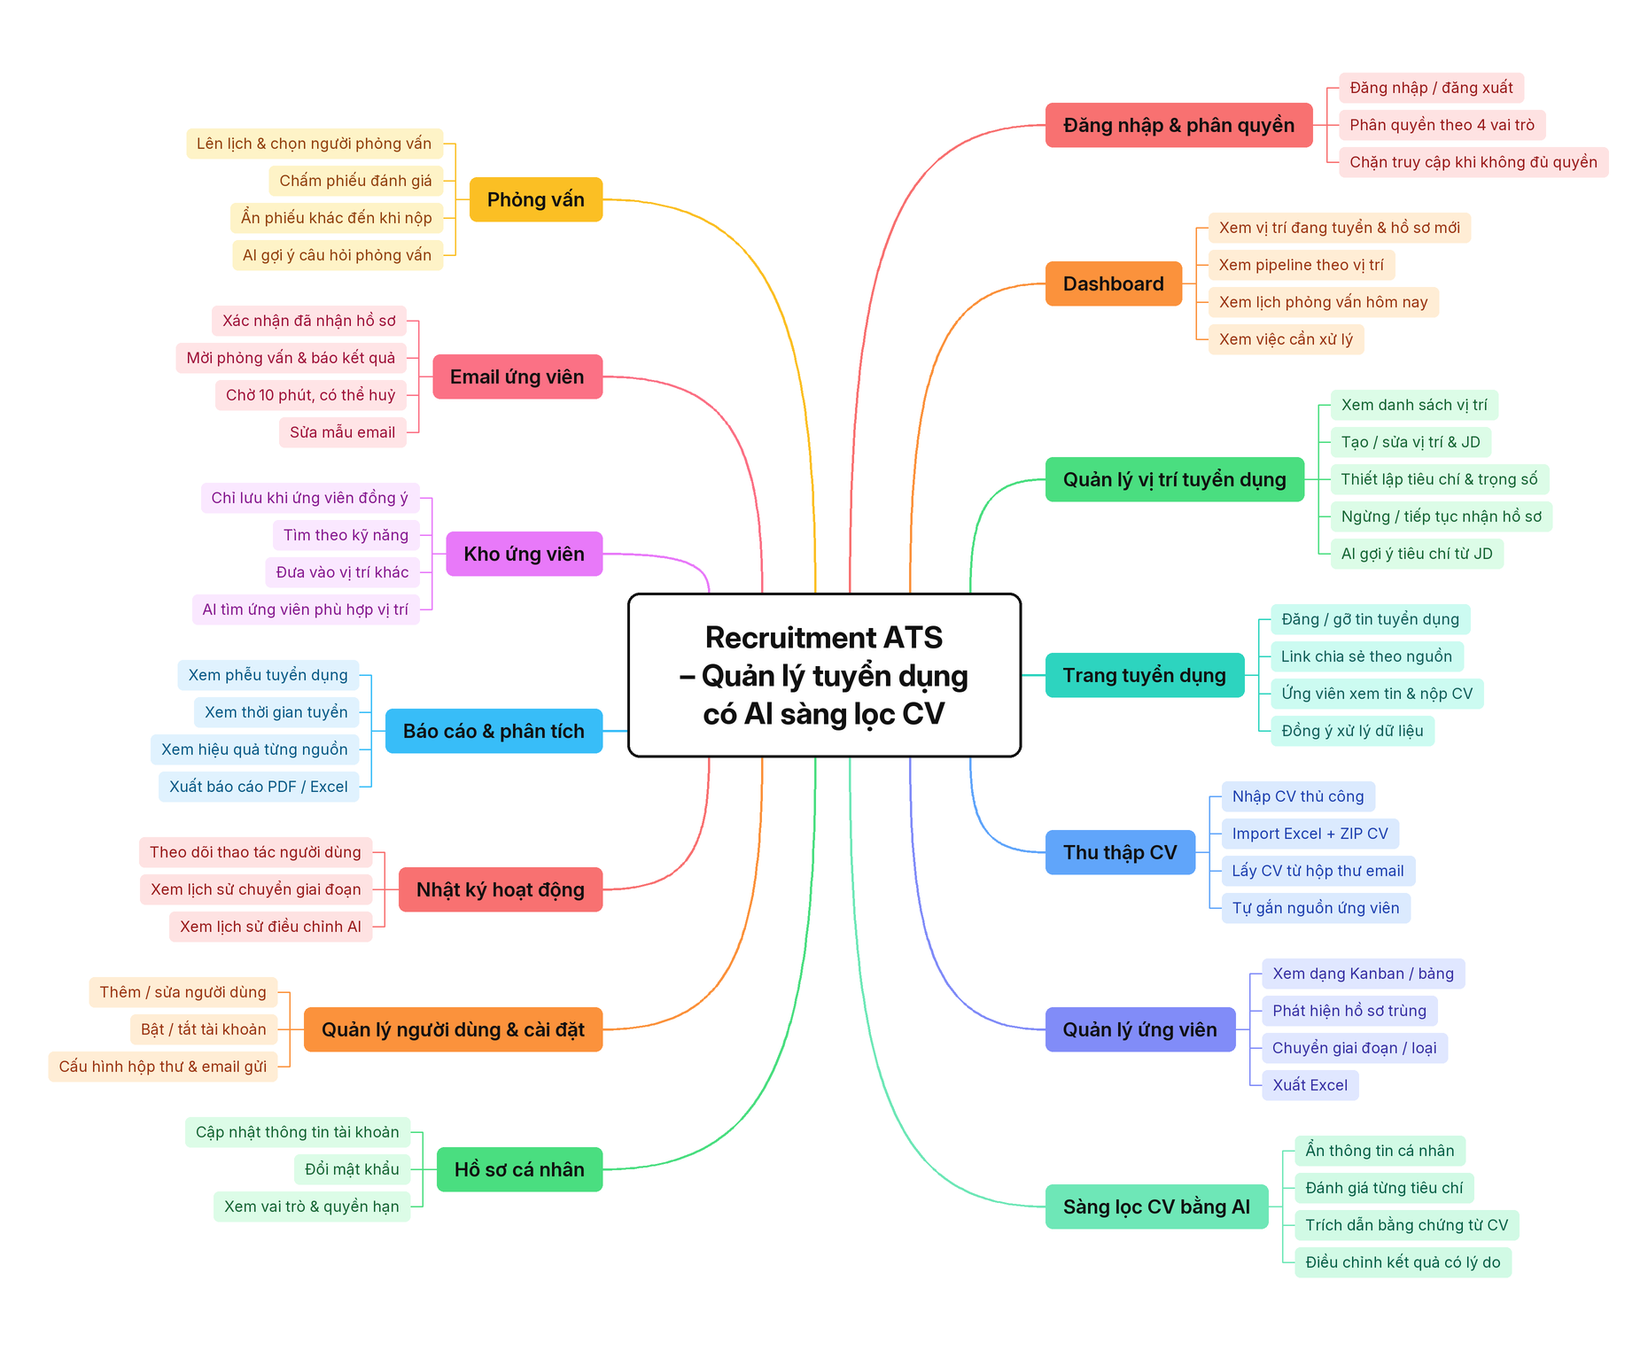
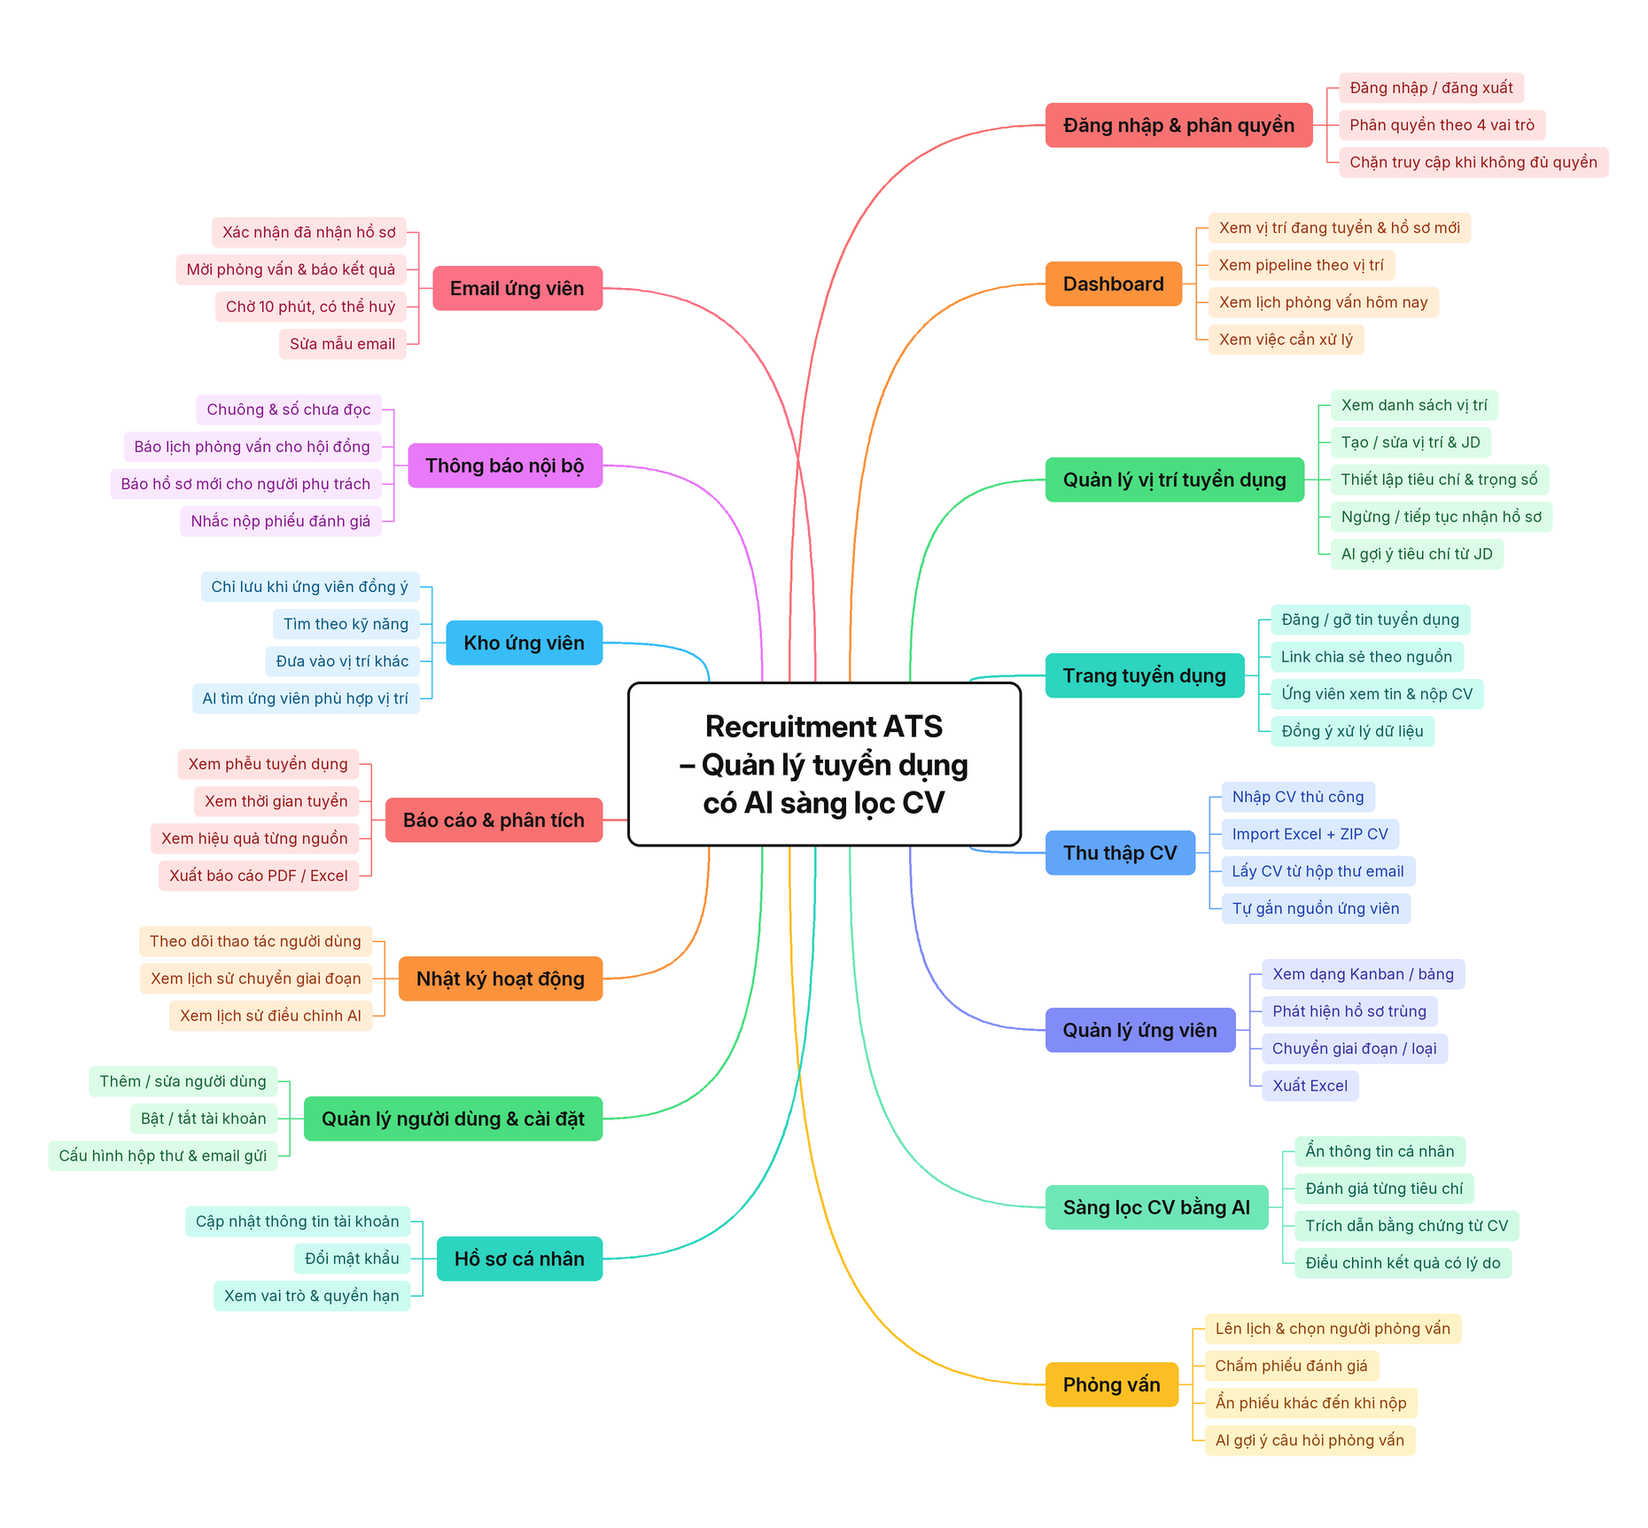
Complete US35 notifications in the remaining docs
- README: US35 in the story list, goal G11, scope and out-of-scope, use case summary, roles table, IA tree and screen map (39 screens), ER, API groups, folder trees
- Mind map: new branch 'Thông báo nội bộ' in the XMind source, PNG re-rendered
- 01 goal G11; 06 Notifications component; 11 seq_schedule_interview with Notifier (PNG, SVG, draw.io); 13 log

Changed region(s): [[0.0312, 0.0308, 0.9978, 0.956], [0.5613, 0.0925, 0.5925, 0.1234], [0.5301, 0.3701, 0.5613, 0.4009]]

diff --git a/docs/diagrams/ve_ats.py b/docs/diagrams/ve_ats.py
@@ -341,7 +341,7 @@ def seq_email_dispatch():
 def seq_schedule_interview():
     s = Seq('Schedule interview', [user('R', 'Recruiter'), page('UI', ':Schedule interview modal'),
                                    ctl('API', ':InterviewsController'), ctl('S', ':InterviewService'),
-                                   ctl('ES', ':EmailScheduler'), DB])
+                                   ctl('ES', ':EmailScheduler'), ctl('N', ':Notifier'), DB])
     s.call('R', 'UI', 'time, place, panel, "Lưu lịch"')
     s.call('UI', 'API', 'POST …/{id}/interviews')
     s.call('API', 'S', 'ScheduleAsync(applicationId, request)')
@@ -362,7 +362,9 @@ def seq_schedule_interview():
     s.self_('S', 'create interview, panel slots')
     s.call('S', 'ES', 'ScheduleAsync(INVITATION)')
     s.reply('ES', 'S', 'email PENDING, +10 min')
-    s.call('S', 'DB', 'save interview, email, audit')
+    s.call('S', 'N', 'InterviewScheduledAsync(interview, actor)')
+    s.reply('N', 'S', 'a notification per panel member except the actor; panel email PENDING, +10 min')
+    s.call('S', 'DB', 'save interview, emails, notifications, audit')
     s.reply('DB', 'S', 'saved or exclusion violation')
     s.frag('alt', 'exclusion constraint violated')
     s.reply('S', 'API', 'INTERVIEW_OVERLAP')

diff --git a/README.md b/README.md
@@ -22,6 +22,7 @@ Small hiring teams collect CVs from many channels, screen them manually, track p
 | G8 Reuse of talent | Consented candidates searchable and addable to another position |
 | G9 Channel effectiveness | Applications per source, including LinkedIn and Facebook share links |
 | G10 AI across the hiring flow | Criteria drafts, semantic pool matches, and interview-question drafts — each reviewed by a person before use |
+| G11 The team acts on time | Panel members and position owners notified of work that concerns them (in the app; interviews also by email) |
 
 What makes this project different from a generic ATS:
 
@@ -38,7 +39,8 @@ What makes this project different from a generic ATS:
 - **Channels (all free).** Candidates apply on the career site — a separate public web app with its own domain — without an account. HR shares source-tagged links to a job post on LinkedIn, Facebook, or elsewhere (`?src=linkedin`), so applications are classified automatically. CVs sent to the recruitment mailbox are collected into a CV inbox. Recruiters can still add CVs manually or import Excel + ZIP.
 - **Candidate communication.** Automatic emails from editable templates: receipt immediately; interview invitation, change, cancellation, rejection, and offer notice after a 10-minute cancel window.
 - **Talent pool and export.** Consented candidates can be added to another position; candidate lists export to Excel.
-- **Out of scope:** candidate accounts, API integration with paid job boards (TopCV, VietnamWorks) and automatic posting to LinkedIn/Facebook (no public API), SMS and calendar integration, headcount planning, OCR for scanned CVs, offer letters and onboarding, and AI that learns from past decisions or makes reject/hire decisions.
+- **Team notifications.** A bell in the internal app tells panel members and position owners about interviews, new applications, completed scorecards, and failures; panel members also get interview emails.
+- **Out of scope:** candidate accounts, API integration with paid job boards (TopCV, VietnamWorks) and automatic posting to LinkedIn/Facebook (no public API), SMS and calendar integration, browser push or real-time notifications, a global search box, headcount planning, OCR for scanned CVs, offer letters and onboarding, and AI that learns from past decisions or makes reject/hire decisions.
 
 Full analysis, market research (Greenhouse, Base E-Hiring, FastWork, EasyHRM, Vingroup practice), channel feasibility, scope, constraints, and risks: [Top-down research](docs/01-research-top-down.md).
 
@@ -84,6 +86,7 @@ US31        Candidate data consent (join, leave, delete)
 US32        AI-suggested criteria from a job description
 US33        AI matching of pool candidates to a position (embeddings)
 US34        AI-suggested interview questions
+US35        In-app notifications (+ interview emails to panel members)
 ```
 
 Backlog, per-story INVEST review, and acceptance criteria: [INVEST requirements](docs/03-invest-requirements.md).
@@ -103,10 +106,10 @@ flowchart TB
 
     subgraph system["Recruitment ATS — System Boundary"]
         direction LR
-        adminCases["<b>Administrator</b><br/><br/>UC01–03 Login, logout, dashboard<br/>UC04–07 · UC22 Positions, job posts<br/>UC08–11 Applications<br/>UC16 Import · UC25 CV inbox<br/>UC26 Talent pool · UC30 Export<br/>UC12–13 AI analysis, override<br/>UC32–34 AI criteria, pool matches, questions<br/>UC14 Schedule interview<br/>UC27–28 Emails, templates<br/>UC17–19 Reports, audit<br/>UC20 Users · UC29 Mailbox & sender<br/>UC21 Profile"]
-        managerCases["<b>HR Manager</b><br/><br/>UC01–03 Login, logout, dashboard<br/>UC04–07 · UC22 Positions, job posts<br/>UC08–11 Applications incl. Offer/Hire<br/>UC16 Import · UC25 CV inbox<br/>UC26 Talent pool · UC30 Export<br/>UC12–13 AI analysis, override<br/>UC32–34 AI criteria, pool matches, questions<br/>UC14 Schedule · UC15 Scorecard<br/>UC27–28 Emails, templates<br/>UC17–19 Reports, audit<br/>UC21 Profile"]
-        recruiterCases["<b>Recruiter</b><br/><br/>UC01–03 Login, logout, dashboard<br/>UC04–06 · UC22 Own positions, job posts<br/>UC08–11 Applications up to Interview<br/>UC16 Import · UC25 CV inbox<br/>UC26 Talent pool · UC30 Export<br/>UC12–13 AI analysis, override<br/>UC32–34 AI criteria, pool matches, questions<br/>UC14 Schedule interview<br/>UC27 Candidate emails<br/>UC21 Profile"]
-        interviewerCases["<b>Interviewer</b><br/><br/>UC01–03 Login, logout, dashboard<br/>UC04 Assigned positions<br/>UC08 Assigned applications, no AI score<br/>UC15 Submit blind scorecard<br/>Sees attached interview questions<br/>UC21 Profile"]
+        adminCases["<b>Administrator</b><br/><br/>UC01–03 Login, logout, dashboard<br/>UC04–07 · UC22 Positions, job posts<br/>UC08–11 Applications<br/>UC16 Import · UC25 CV inbox<br/>UC26 Talent pool · UC30 Export<br/>UC12–13 AI analysis, override<br/>UC32–34 AI criteria, pool matches, questions<br/>UC14 Schedule interview<br/>UC27–28 Emails, templates<br/>UC17–19 Reports, audit<br/>UC20 Users · UC29 Mailbox & sender<br/>UC21 Profile · UC35 Notifications"]
+        managerCases["<b>HR Manager</b><br/><br/>UC01–03 Login, logout, dashboard<br/>UC04–07 · UC22 Positions, job posts<br/>UC08–11 Applications incl. Offer/Hire<br/>UC16 Import · UC25 CV inbox<br/>UC26 Talent pool · UC30 Export<br/>UC12–13 AI analysis, override<br/>UC32–34 AI criteria, pool matches, questions<br/>UC14 Schedule · UC15 Scorecard<br/>UC27–28 Emails, templates<br/>UC17–19 Reports, audit<br/>UC21 Profile · UC35 Notifications"]
+        recruiterCases["<b>Recruiter</b><br/><br/>UC01–03 Login, logout, dashboard<br/>UC04–06 · UC22 Own positions, job posts<br/>UC08–11 Applications up to Interview<br/>UC16 Import · UC25 CV inbox<br/>UC26 Talent pool · UC30 Export<br/>UC12–13 AI analysis, override<br/>UC32–34 AI criteria, pool matches, questions<br/>UC14 Schedule interview<br/>UC27 Candidate emails<br/>UC21 Profile · UC35 Notifications"]
+        interviewerCases["<b>Interviewer</b><br/><br/>UC01–03 Login, logout, dashboard<br/>UC04 Assigned positions<br/>UC08 Assigned applications, no AI score<br/>UC15 Submit blind scorecard<br/>Sees attached interview questions<br/>UC21 Profile · UC35 Notifications"]
         candidateCases["<b>Candidate</b><br/><br/>UC23 Browse job posts<br/>UC24 Apply online<br/>UC31 Manage data consent"]
     end
 
@@ -123,7 +126,7 @@ flowchart TB
     interviewer --> interviewerCases
     candidate --> candidateCases
     system -.->|UC12 · UC32–34 redacted text,<br/>job descriptions, embeddings| ai
-    system -.->|UC27 candidate emails| mail
+    system -.->|UC27 candidate emails<br/>UC35 panel emails| mail
     mailbox -.->|UC25 emailed CVs| system
 
     classDef actor fill:#666,color:#fff,stroke:#333
@@ -166,6 +169,7 @@ Four internal roles have accounts; candidates use the public career site without
 | Reports and export | Yes | Yes | No | No |
 | Audit log | Yes | Yes | No | No |
 | User management | Yes | No | No | No |
+| Notifications (own only) | Yes | Yes | Yes | Yes |
 
 **Candidate (no account):** browse published job posts, apply with consent, and join or leave the talent pool or delete their data from the signed link in any email.
 
@@ -202,6 +206,7 @@ Authenticated
 ├── Users
 ├── Settings: Email templates · Mailbox & sender
 ├── Profile
+├── Notifications panel (topbar bell)
 └── Forbidden
 ```
 
@@ -236,10 +241,12 @@ flowchart TB
     Shell --> Users["Users"]
     Shell --> Settings["Settings"]
     Shell --> Profile["Profile"]
+    Shell --> Notifications["Notifications panel"]
+    Notifications -.-> AppDetail
     Shell --> Forbidden["403"]
 ```
 
-Screen inventory (38 screens, including 6 public career-site screens), requirement-to-screen mapping, task flows, state contract, accessibility rules, and screen-to-API mapping: [Information architecture](docs/04-information-architecture.md).
+Screen inventory (39 screens, including 6 public career-site screens), requirement-to-screen mapping, task flows, state contract, accessibility rules, and screen-to-API mapping: [Information architecture](docs/04-information-architecture.md).
 
 ### 2.3 UI prototype
 
@@ -398,6 +405,7 @@ erDiagram
     applications ||--o{ email_messages : triggers
     email_templates ||--o{ email_messages : renders
     inbox_items |o--o| applications : "converted to"
+    users ||--o{ notifications : receives
     import_batches ||--o{ applications : creates
     users ||--o{ audit_logs : performs
     candidates ||--o| candidate_embeddings : "embedded as"
@@ -428,6 +436,7 @@ Full ER diagrams per domain, queue claims, retention jobs, and rule-to-constrain
 | Interviews, scorecards, AI question drafts | `/api/interviews`, `/api/applications/{id}/scorecards`, `/api/applications/{id}/interview-question-suggestions` | 10 |
 | Emails, CV inbox, talent pool, imports | `/api/emails`, `/api/inbox-items`, `/api/talent-pool`, `/api/imports` | 18 |
 | Reports, audit, users, settings | `/api/reports`, `/api/audit-logs`, `/api/users`, `/api/settings` | 15 |
+| Notifications | `/api/notifications` | 4 |
 | Public career site | `/api/public` | 8 |
 
 Every internal operation declares its roles in `x-roles`; errors use RFC 7807 Problem Details with a stable `errorCode` and `traceId`; Interviewers never receive AI fields. Conventions, status codes, error codes, the endpoint list, and story coverage: [OpenAPI contract](docs/08-openapi-contract.md).
@@ -449,10 +458,11 @@ src/backend/
 ├── RecruitmentAts.slnx
 ├── src/
 │   ├── RecruitmentAts.Application/     # modules: Positions, Applications, Screening, Interviews,
-│   │                                   # Communication, Inbox, Imports, Consent, … + Abstractions (ports)
+│   │                                   # Communication, Inbox, Imports, Consent, Notifications, … + Abstractions (ports)
 │   ├── RecruitmentAts.Infrastructure/  # EF Core + PostgreSQL, queues, MailKit, LLM, files, Excel, PDF
 │   ├── RecruitmentAts.Api/             # controllers (route name = operationId), JWT, ProblemDetails
-│   └── RecruitmentAts.Worker/          # AnalysisRunner, EmailDispatcher, MailboxPoller, RetentionJob
+│   └── RecruitmentAts.Worker/          # AnalysisRunner, EmailDispatcher, MailboxPoller, RetentionJob,
+│                                       # ScorecardReminderJob, EmbeddingRunner
 └── tests/                              # Application, Infrastructure (Testcontainers), Api (+ contract),
                                         # Worker, ArchitectureTests
 ```
@@ -473,7 +483,7 @@ src/frontend/
 ├── apps/
 │   ├── internal/src/features/          # auth, dashboard, positions, job-posts, applications, screening,
 │   │                                   # interviews, emails, inbox, talent-pool, imports, reports, audit,
-│   │                                   # users, settings, profile
+│   │                                   # users, settings, profile, notifications
 │   └── career/src/features/            # jobs, apply, consent, privacy
 ├── packages/
 │   ├── api-client/                     # types generated from docs/api/openapi.yaml, auth refresh, ProblemDetails

diff --git a/docs/13-progress.md b/docs/13-progress.md
@@ -135,7 +135,7 @@ Deviations from the design documents, kept here so they are easy to review (each
 | 2026-11-05 | The user form checks a taken email while the Admin types (400 ms after the last key) with `listUsers` filtered to an exact match — no new endpoint; `DUPLICATE_EMAIL` (409) still covers two Admins saving at once | 05 |
 | 2026-11-05 | Pagination (Figma component `Pagination`, Style=Table, and code): the "1–20 trong 126" summary is removed, controls are 28 px and right-aligned. Updated in Figma for SCR-10, 11, 20, 40, 45, 70 and in their exported screenshots | 05, `images/screens` |
 | 2026-11-05 | The add-user button uses the Figma `plus` icon (16 px) instead of a typed "+" | — |
-| 2026-11-05 | **New story US35 Notifications (M, 5 points, M2 after US15) and BR-29**: the design told nobody inside the team about new work (the interview invitation goes to the candidate only; panel members had to open the dashboard). Bell with unread count, panel `SCR-91`, notifications to the people an event concerns, interview emails to panel members (10-minute window like BR-23), scorecard reminder after 24 h. Table `notifications`, 4 operations (92 in total) | 01, 02, 03, 04, 05, 06, 07, 08, 09, 10, 12, README, `openapi.yaml`, `schema.sql` |
+| 2026-11-05 | **New story US35 Notifications (M, 5 points, M2 after US15) and BR-29**: the design told nobody inside the team about new work (the interview invitation goes to the candidate only; panel members had to open the dashboard). Bell with unread count, panel `SCR-91`, notifications to the people an event concerns, interview emails to panel members (10-minute window like BR-23), scorecard reminder after 24 h. Table `notifications`, 4 operations (92 in total), goal G11 | 01, 02, 03, 04, 05, 06, 07, 08, 09, 10, 11 (`seq_schedule_interview`), 12, README, mind map (XMind + PNG), `openapi.yaml`, `schema.sql` |
 | 2026-11-05 | No global search: the Figma topbar had a "Tìm ứng viên, vị trí, mã hồ sơ" box that no story or operation covered; removed from the `Topbar` component (17 screens re-exported). Each list keeps its own search | 01, 04, 05, `images/screens` |
 | 2026-11-05 | Known limitation: two browser tabs refreshing with the same cookie at the same moment look like token reuse and end the session (single-flight works per tab only) | — |
 | 2026-11-04 | Internal app: every IA page has its route and sidebar item from T1.3; a page whose story is not built shows "Chức năng này đang được xây dựng". Nav icons come with the `ui` icon set | 09 §4.2 |

diff --git a/docs/11-sequence-and-state-diagrams.md b/docs/11-sequence-and-state-diagrams.md
@@ -41,7 +41,7 @@ Lifelines use the class names of the [class design](10-class-design.md), so ever
 | [seq_override_ai](#seq-override-ai) | Recruiter overrides one criterion result | US13, BR-13 |
 | [seq_move_stage](#seq-move-stage) | Reject an application, queue the email | US11, BR-01–04, BR-23 |
 | [seq_email_dispatch](#seq-email-dispatch) | Cancel a pending email; Worker sends due emails | US27, BR-23 |
-| [seq_schedule_interview](#seq-schedule-interview) | Schedule an interview, prevent double booking | US14 |
+| [seq_schedule_interview](#seq-schedule-interview) | Schedule an interview, prevent double booking, notify the panel | US14, US35, BR-29 |
 | [seq_submit_scorecard](#seq-submit-scorecard) | Blind scorecard submission | US15, BR-07 |
 | [seq_mailbox_intake](#seq-mailbox-intake) | Worker collects CVs from the mailbox | US25, BR-22 |
 | [seq_bulk_import](#seq-bulk-import) | Preview and atomic import | US16, BR-16 |
@@ -121,7 +121,7 @@ Cancel (`UPDATE … WHERE status = 'PENDING'`) and claim (`PENDING → SENDING`)
 
 ![Schedule interview](diagrams/out/seq_schedule_interview.png)
 
-The overlap query gives a readable error; the exclusion constraint `ex_panelist_overlap` catches two requests that pass the query at the same time. Rescheduling replaces a still-pending invitation instead of sending a second email.
+The overlap query gives a readable error; the exclusion constraint `ex_panelist_overlap` catches two requests that pass the query at the same time. Rescheduling replaces a still-pending invitation instead of sending a second email. `Notifier` adds the panel members' notifications in the same transaction, so a rejected interview notifies nobody; a later change cancels a panel email that is still pending (BR-29).
 
 <a id="seq-submit-scorecard"></a>
 ### Submit blind scorecard

diff --git a/docs/06-c4-architecture.md b/docs/06-c4-architecture.md
@@ -227,6 +227,7 @@ flowchart TB
 | Applications & Pipeline | Candidate de-duplication, CV upload and replacement, stage moves, rejection reasons, stage history | US08–11, BR-01–06, BR-15, BR-18 |
 | Screening | Analysis status and history, re-run, per-criterion override with reason | US12, US13, BR-09, BR-13 |
 | Interviews | Scheduling with panel; AI-suggested questions attached by the scheduler; blind scorecards | US14, US15, US34, BR-07, BR-08, BR-28 |
+| Notifications | The signed-in user's notifications (list, unread count, mark read); `Notifier` is called by other modules inside their transaction and picks the recipients | US35, BR-29 |
 | Intake | Bulk import preview and atomic commit; CV inbox assign/dismiss; talent pool search, semantic pool matches for a position, add to position | US16, US25, US26, US33, BR-16, BR-22, BR-24, BR-27 |
 | Communication | List, edit, cancel, resend candidate emails; templates with preview; mailbox and sender settings with connection test | US27–29, BR-23 |
 | Insight & Admin | Dashboard, reports and export, candidate Excel export, audit log, user management | US03, US17–20, US30, BR-25 |

diff --git a/docs/01-research-top-down.md b/docs/01-research-top-down.md
@@ -58,6 +58,7 @@ A separate Hiring Manager role (department head who requests and approves hiring
 | G8 — Reuse of talent | Candidates who consented can be found in the talent pool and added to another position in one action |
 | G9 — Channel effectiveness | Applications per source are reported, including LinkedIn and Facebook posts that link to the career site |
 | G10 — AI across the hiring flow | AI drafts position criteria from a job description, finds matching consented candidates in the talent pool, and suggests interview questions for unverified criteria — every suggestion is reviewed by a person before it takes effect |
+| G11 — The team acts on time | Panel members and position owners are notified in the app (and panel members by email) of work that concerns them; no one has to watch every screen |
 
 ## 4. Market research
 
